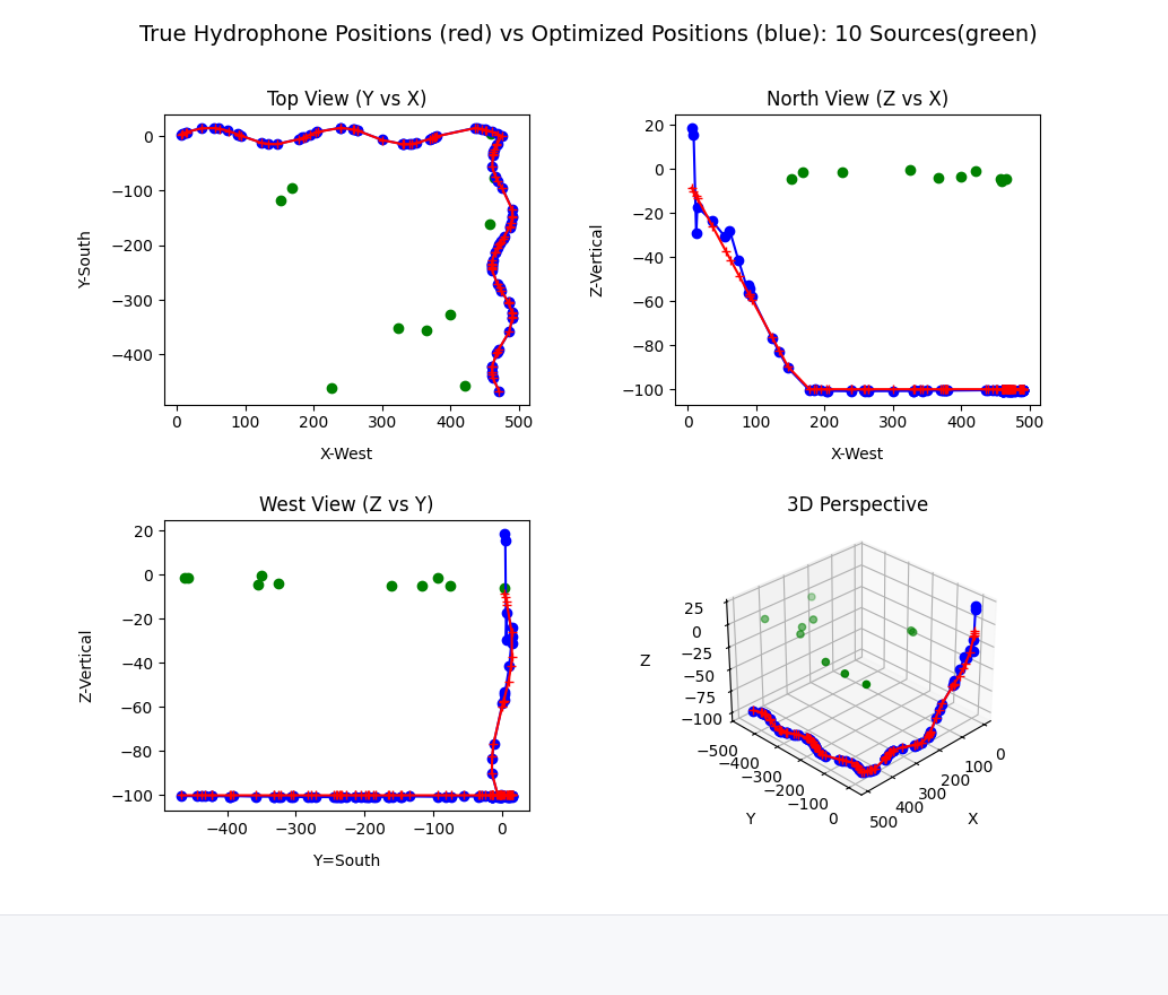
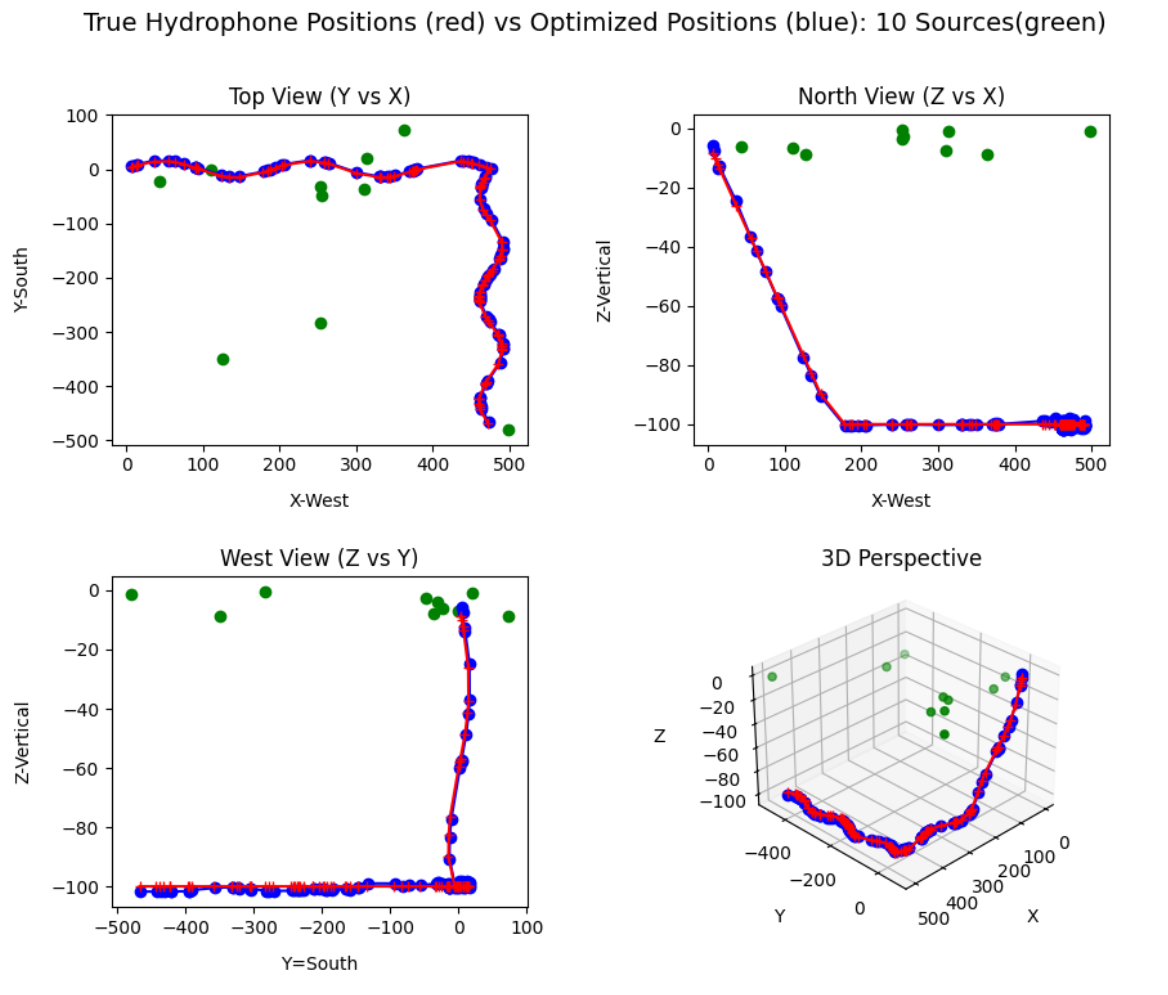
Update fiber definition and re-run example

diff --git a/DAS_classes.py b/DAS_classes.py
@@ -49,7 +49,9 @@ class DAS_line:
                         print(iSpec, l, self.specsDistanceAlongFiber[iSpec], l + dl , x, y)
                     if self.specsDistanceAlongFiber[iSpec] > l and self.specsDistanceAlongFiber[iSpec] <= l + dl:
                         self.xyzsAlongFiber.append([x, y, z])
-                        self.initial_xyzsAlongFiber.append([x+self.locationUncertainty*(np.random.rand()-0.5), (self.originY+self.locationUncertainty*(np.random.rand()-0.5)), z+self.locationUncertainty*(np.random.rand()-0.5)])
+                        # N.B.  The initial locations are 'near' the actual (but unknown in the real world) locations
+                        #       The uncertainty in z is 1/10 of the x and y uncertainties as the bottom is the bottom!
+                        self.initial_xyzsAlongFiber.append([x+self.locationUncertainty*(np.random.rand()-0.5), (self.originY+self.locationUncertainty*(np.random.rand()-0.5)), z+self.locationUncertainty*(np.random.rand()-0.5)/10.0])
                         iSpec += 1
                     x += dd
                     l += dl
@@ -69,7 +71,8 @@ class DAS_line:
                                 print(iSpec, l, self.specsDistanceAlongFiber[iSpec], l + dl, x, y)
                             if self.specsDistanceAlongFiber[iSpec] > l and self.specsDistanceAlongFiber[iSpec] <= l + dl:
                                 self.xyzsAlongFiber.append([x, y, z])
-                                approxLoc = [x+self.locationUncertainty*(np.random.rand()-0.5), (y+self.locationUncertainty*(np.random.rand()-0.5)), z+self.locationUncertainty*(np.random.rand()-0.5)]
+                                #  set z component to have 1/10 error range as do x and y
+                                approxLoc = [x+self.locationUncertainty*(np.random.rand()-0.5), (y+self.locationUncertainty*(np.random.rand()-0.5)), z+self.locationUncertainty*(np.random.rand()-0.5)/10.0]
                                 self.initial_xyzsAlongFiber.append(approxLoc)
                                 iSpec += 1
                             x += dd
@@ -87,7 +90,7 @@ class DAS_line:
                                 self.xyzsAlongFiber.append([x, y, z])
                                 self.initial_xyzsAlongFiber.append(
                                     [xL + self.locationUncertainty * (np.random.rand() - 0.5), (y + self.locationUncertainty * (np.random.rand() - 0.5)),
-                                     z + self.locationUncertainty * (np.random.rand() - 0.5)])
+                                     z + self.locationUncertainty * (np.random.rand() - 0.5)/10.0])
                                 iSpec += 1
                             if self.fiberShape['shape']['L'][2] == 'North':
                                 y -= dd

diff --git a/DAS_locateArray.py b/DAS_locateArray.py
@@ -45,18 +45,25 @@ fiber = pickle.load(open(fiberfile, "rb"))
 DEBUG = 0
 ITER = 0
 
-#######################################################
-def break_string_into_fixed_length_lines(long_string, max_length=120):
-    # Use a list comprehension to break the string into chunks of max_length
-    lines = [long_string[i:i+max_length] for i in range(0, len(long_string), max_length)]
-    return lines
-
-
 # Constants (Adjust as needed)
 NUM_HYDROPHONES = fiber.Nhydros
 NUM_SIGNAL_SOURCES = 10
 A = 1.0  # Weight for time difference MSE
 B = 0.0  # Weight for cable configuration MSE  THIS DOES NOT SEEM TO HELP - IT HURTS THE FITTING
+
+#minmization method
+method = 'BFGS'  # or 'L-BFGS-B'
+method = 'L-BFGS-B'
+method = 'BFGS'
+tol = 1e-6
+ITER = 0
+
+
+#######################################################
+def break_string_into_fixed_length_lines(long_string, max_length=120):
+    # Use a list comprehension to break the string into chunks of max_length
+    lines = [long_string[i:i+max_length] for i in range(0, len(long_string), max_length)]
+    return lines
 
 lines = break_string_into_fixed_length_lines(fiberfile, 60)
 newfilename = []
@@ -72,12 +79,12 @@ assert isinstance(fiber.xyzsAlongFiber, object)
 true_hydrophone_positions = fiber.xyzsAlongFiber
         # In the real world these (x,y,z)'s are only known approximately at first
 
-# setup signal locations to localize the hydrophones
+# setup underwater signal locations to localize the hydrophones
 # Define the minimum and maximum values for each dimension
-sig_min = [0, -500, 0]
-sig_max = [500, 100, -10]
+sig_min = [0, -500, 0]     #  locations here determined randomly
+sig_max = [500, 100, -12]  # 12 meters is the maximum length of my Lubell underwater speaker wire
 
-# Generate the list of tuples
+# Generate the list of tuples that represent places where localizing signals are sent from
 signal_positions = [
     np.array([
         random.uniform(sig_min[0], sig_max[0]),  # Random value between sig_min[0] and sig_max[0]
@@ -108,13 +115,6 @@ initial_positions = fiber.initial_xyzsAlongFiber
 print("initial_positions")
 print(initial_positions)
 DAS_classes.quadPlot(true_hydrophone_positions, initial_positions, signal_positions, "True hydrophone (red) positions vs initial assumptions (blue): {} Sources(green)".format(NUM_SIGNAL_SOURCES))
-
-#minmization method
-method = 'BFGS'  # or 'L-BFGS-B'
-method = 'L-BFGS-B'
-method = 'BFGS'
-tol = 1e-6
-ITER = 0
 
 print("Starting minimization --------------------")
 start_time = time.time()  # Record the start time

diff --git a/DAS_defineFiber.py b/DAS_defineFiber.py
@@ -42,7 +42,7 @@ N_hydros = 100
 L_fiber = 1000
 c_sound = 1485
 locationUncertainty = 60   # used to generate assumed hydrophone locations 'near' modeled ones
-
+                           # in z direction, the location uncertainty is 1/10 of this
 fiberShape = {"initialXYZ":[0, 0, -5], "descend":[-0, -100],"sinWiggle":[5, 5], "shape":{"straight":"x-axis"}}
 fiberShape = {"initialXYZ":[0, 0, -5], "descend":[-.1, -100],"sinWiggle":[5, 5], "shape":{"straight":"x-axis"}}
 fiberShape = {"initialXYZ":[0, 0, -5], "descend":[-30, -50],"sinWiggle":[5, 5], "shape":{"straight":"x-axis"}}
